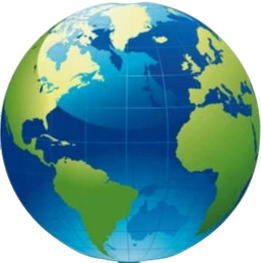
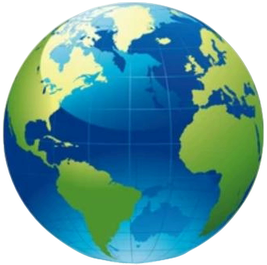
update globe image

diff --git a/sections/home-page/main-section/NoBodyWins.js b/sections/home-page/main-section/NoBodyWins.js
@@ -32,7 +32,7 @@ const NoBodyWins = ({}) => {
             src="/images/globe.png"
             alt="diamond-2"
             width={345}
-            height={190}
+            height={345}
           />
         </Box>
         <Box
